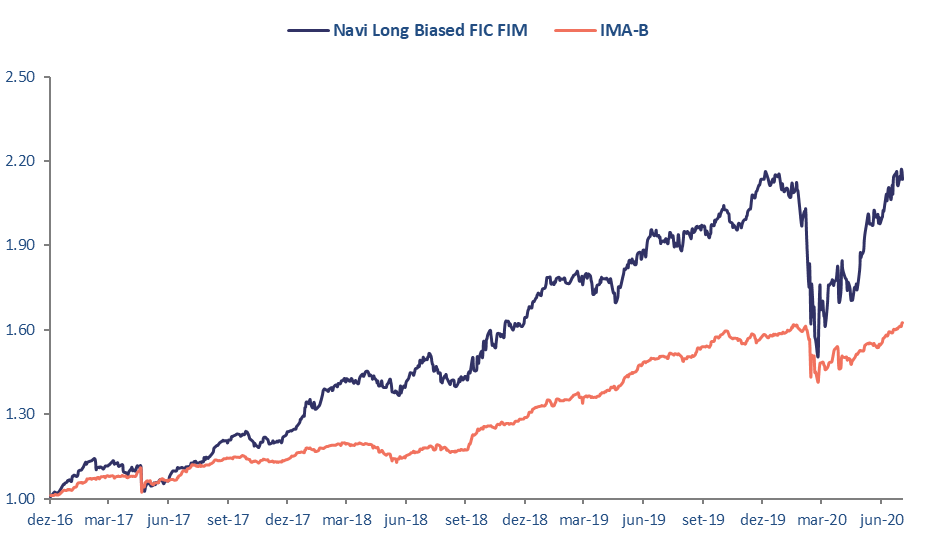
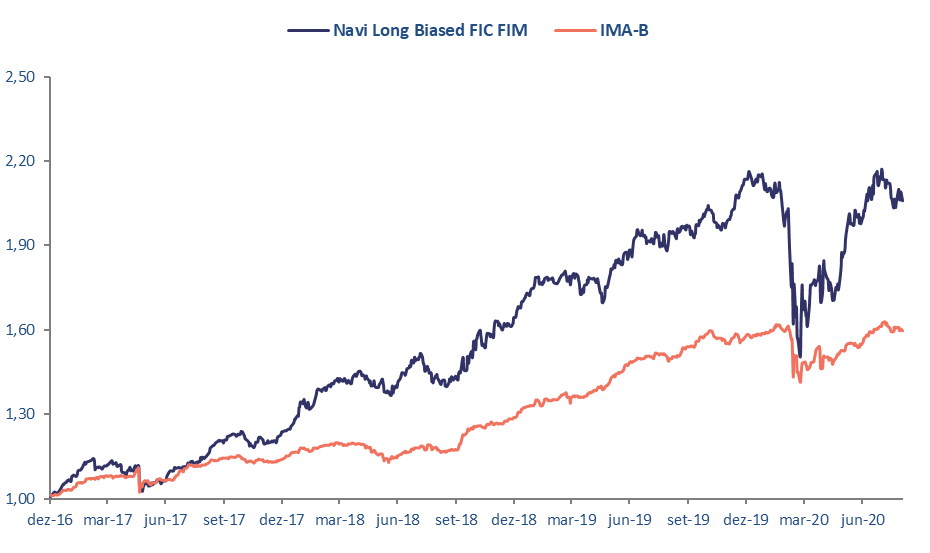
Update_Agosto

diff --git a/index.html b/index.html
@@ -830,18 +830,18 @@
               <tbody>
                 <tr>
                   <td>Fundo</td>
-                  <td>212,38% </td>
-                  <td>35,34% </td>
-                  <td>16,59% </td>
-                  <td>6,13% </td>
-                  <td>R$ 740M</td>
+                  <td>209,31% </td>
+                  <td>32,31% </td>
+                  <td>17,20% </td>
+                  <td>3,77% </td>
+                  <td>R$ 710M</td>
                 </tr>
                 <tr>
                   <td>CDI</td>
-                  <td>142,55% </td>
-                  <td>18,71% </td>
-                  <td>10,85% </td>
-                  <td>4,23% </td>
+                  <td>142,94% </td>
+                  <td>17,95% </td>
+                  <td>10,40% </td>
+                  <td>3,88% </td>
                   <td>-</td>
                 </tr>
               </tbody>
@@ -850,7 +850,7 @@
           <div class="row">
             <div class="col-lg-8">
               <img src="img/graficos/graficoLS.png" alt="" class="">
-              <p>Dados de 31/07/2020 e início do fundo em 29/09/2010.</p>
+              <p>Dados de 31/08/2020 e início do fundo em 29/09/2010.</p>
             </div>
             <div class="col-lg-4">
               <p>
@@ -918,18 +918,18 @@
               <tbody>
                 <tr>
                   <td>Fundo</td>
-                  <td>113,44%</td>
-                  <td>91,49%</td>
-                  <td>42,90%</td>
-                  <td>11,66%</td>
-                  <td>R$ 939M</td>
+                  <td>105,84%</td>
+                  <td>79,11%</td>
+                  <td>44,47%</td>
+                  <td>5,59%</td>
+                  <td>R$ 871M</td>
                 </tr>
                 <tr>
                   <td>IMA-B</td>
-                  <td>62,59%</td>
-                  <td>46,75%</td>
-                  <td>37,86%</td>
-                  <td>8,16%</td>
+                  <td>59,66%</td>
+                  <td>42,20%</td>
+                  <td>36,00%</td>
+                  <td>6,64%</td>
                   <td>-</td>
                 </tr>
               </tbody>
@@ -938,7 +938,7 @@
           <div class="row">
             <div class="col-lg-8">
               <img src="img/graficos/graficoLB.png" alt="" class="">
-              <p>Dados de 31/07/2020 e início do fundo em 27/12/2016.</p>
+              <p>Dados de 31/08/2020 e início do fundo em 27/12/2016.</p>
             </div>
             <div class="col-lg-4">
               <p>
@@ -1007,18 +1007,18 @@
               <tbody>
                 <tr>
                   <td>Fundo</td>
-                  <td>40,52%</td>
-                  <td>35,21%</td>
-                  <td>20,01%</td>
-                  <td>4,44%</td>
-                  <td>R$ 84M</td>
+                  <td>39,71%</td>
+                  <td>33,44%</td>
+                  <td>21,00%</td>
+                  <td>2,64%</td>
+                  <td>R$ 83M</td>
                 </tr>
                 <tr>
                   <td>CDI</td>
-                  <td>21,08%</td>
-                  <td>18,71%</td>
-                  <td>10,85%</td>
-                  <td>4,23%</td>
+                  <td>21,28%</td>
+                  <td>17,95%</td>
+                  <td>10,40%</td>
+                  <td>3,88%</td>
                   <td>-</td>
                 </tr>
               </tbody>
@@ -1027,7 +1027,7 @@
           <div class="row">
             <div class="col-lg-8">
               <img src="img/graficos/graficoPrev.png" alt="" class="">
-              <p>Dados de 31/07/2020 e início do fundo em 18/05/2017.</p>
+              <p>Dados de 31/08/2020 e início do fundo em 18/05/2017.</p>
             </div>
             <div class="col-lg-4">
               <p>
@@ -1090,18 +1090,18 @@
               <tbody>
                 <tr>
                   <td>Fundo</td>
-                  <td>138,44%</td>
-                  <td>106,14%</td>
-                  <td>49,87%</td>
-                  <td>10,38%</td>
-                  <td>R$ 1.103M</td>
+                  <td>125,15%</td>
+                  <td>87,54%</td>
+                  <td>52,97%</td>
+                  <td>4,56%</td>
+                  <td>R$ 1.066M</td>
                 </tr>
                 <tr>
                   <td>Ibovespa</td>
-                  <td>79,58%</td>
-                  <td>56,12%</td>
-                  <td>29,91%</td>
-                  <td>1,08%</td>
+                  <td>71,62%</td>
+                  <td>40,28%</td>
+                  <td>29,59%</td>
+                  <td>-1,75%</td>
                   <td>-</td>
                 </tr>
               </tbody>
@@ -1110,7 +1110,7 @@
           <div class="row">
             <div class="col-lg-8">
               <img src="img/graficos/graficoLO.png" alt="" class="">
-              <p>Dados de 31/07/2020 e início do fundo em 30/09/2011.</p>
+              <p>Dados de 31/08/2020 e início do fundo em 30/09/2011.</p>
             </div>
             <div class="col-lg-4">
               <p>
